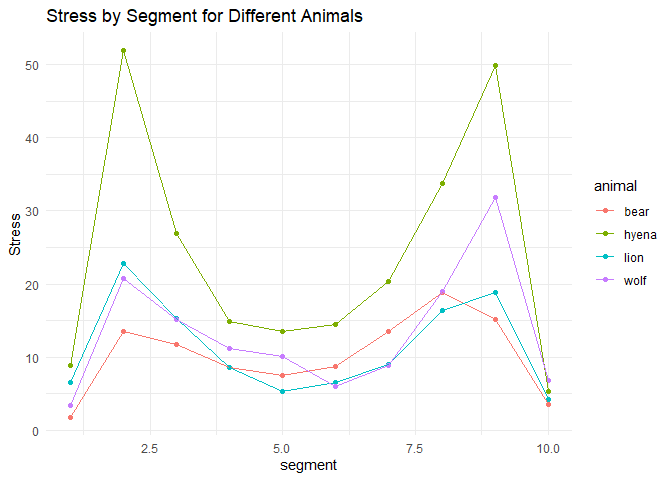
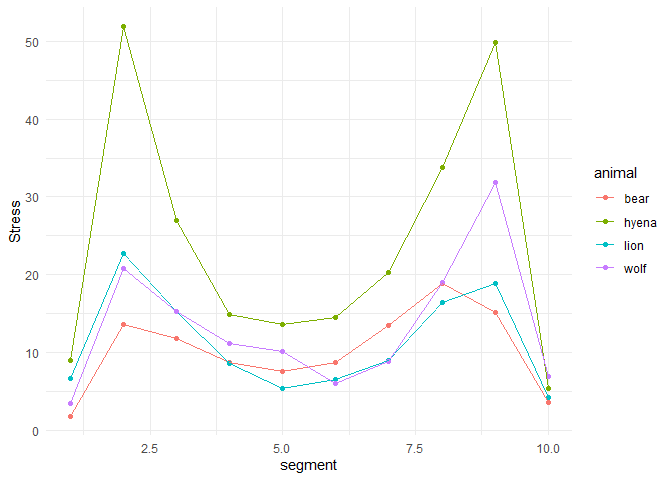
final version

diff --git a/Projects/MiguelDLM/janthiele7.md b/Projects/MiguelDLM/janthiele7.md
@@ -13,6 +13,23 @@
     ## ℹ Use the conflicted package (<http://conflicted.r-lib.org/>) to force all conflicts to become errors
 
     library(dplyr)
+    library(gridExtra)
+
+    ## 
+    ## Attache Paket: 'gridExtra'
+    ## 
+    ## Das folgende Objekt ist maskiert 'package:dplyr':
+    ## 
+    ##     combine
+
+    library(cowplot)
+
+    ## 
+    ## Attache Paket: 'cowplot'
+    ## 
+    ## Das folgende Objekt ist maskiert 'package:lubridate':
+    ## 
+    ##     stamp
 
     #loading datasets
     bear<- read.csv("smooth_stress_tensor (bear).csv")
@@ -162,12 +179,13 @@ axis for each animal
                      names_to = "animal",
                      values_to = "value")
 
-    x_axis_longer%>%
+    plot_x<- x_axis_longer%>%
       ggplot(aes(x = segment, y = value, color = animal)) +
         geom_point() +
         geom_line() +
-        labs(y = "Stress", title = "Stress by Segment for Different Animals") +
+        labs(y = "Stress") +
         theme_minimal()
+    plot_x
 
 ![](janthiele7_files/figure-markdown_strict/unnamed-chunk-12-1.png)
 
@@ -176,25 +194,58 @@ axis for each animal
                      names_to = "animal",
                      values_to = "value")
 
-    y_axis_longer%>%
+    plot_y<- y_axis_longer%>%
       ggplot(aes(x = segment, y = value, color = animal)) +
         geom_point() +
         geom_line() +
-        labs(y = "Stress", title = "Stress by Segment for Different Animals") +
-        theme_minimal()
-
-![](janthiele7_files/figure-markdown_strict/unnamed-chunk-13-1.png)
+        labs(y = "Stress") +
+        theme_minimal()+
+      theme(legend.position = "none",
+            axis.title.y = element_blank(),  
+            axis.text.y = element_blank())
 
     z_axis_longer<- z_axis %>%
         pivot_longer(cols = c("bear","hyena","lion","wolf"),
                      names_to = "animal",
                      values_to = "value")
 
-    z_axis_longer%>%
+    plot_z<- z_axis_longer%>%
       ggplot(aes(x = segment, y = value, color = animal)) +
         geom_point() +
         geom_line() +
-        labs(y = "Stress", title = "Stress by Segment for Different Animals") +
-        theme_minimal()
+        labs(y = "Stress") +
+        theme_minimal()+
+      theme(axis.title.y = element_blank(),  
+            axis.text.y = element_blank(),
+            legend.position = "none")
 
-![](janthiele7_files/figure-markdown_strict/unnamed-chunk-14-1.png)
+    legend <- cowplot::get_legend(plot_x)
+
+    ## Warning in get_plot_component(plot, "guide-box"): Multiple components found;
+    ## returning the first one. To return all, use `return_all = TRUE`.
+
+    plot_x <- plot_x + theme(legend.position = "none")
+    # Combine plots into a single grid with a shared legend and a main title
+    combined_plot <- grid.arrange(
+      arrangeGrob(
+        plot_x,
+        plot_y,
+        plot_z,
+        legend,
+        ncol = 4
+      ),
+      top = "Von Misses Stress on X Y and Z of different animals jaws" # Adjust the heights: 90% for plots, 10% for legend
+    )
+
+![](janthiele7_files/figure-markdown_strict/unnamed-chunk-15-1.png)
+
+    # Display the combined plot
+    print(combined_plot)
+
+    ## TableGrob (2 x 1) "arrange": 2 grobs
+    ##   z     cells    name                grob
+    ## 1 1 (2-2,1-1) arrange     gtable[arrange]
+    ## 2 2 (1-1,1-1) arrange text[GRID.text.212]
+
+    # plot_xyz=grid.arrange(
+    # plot_x + theme(legend.position="none"), plot_y+ theme(legend.position="none"), plot_z, nrow=2, legend="bottom")
